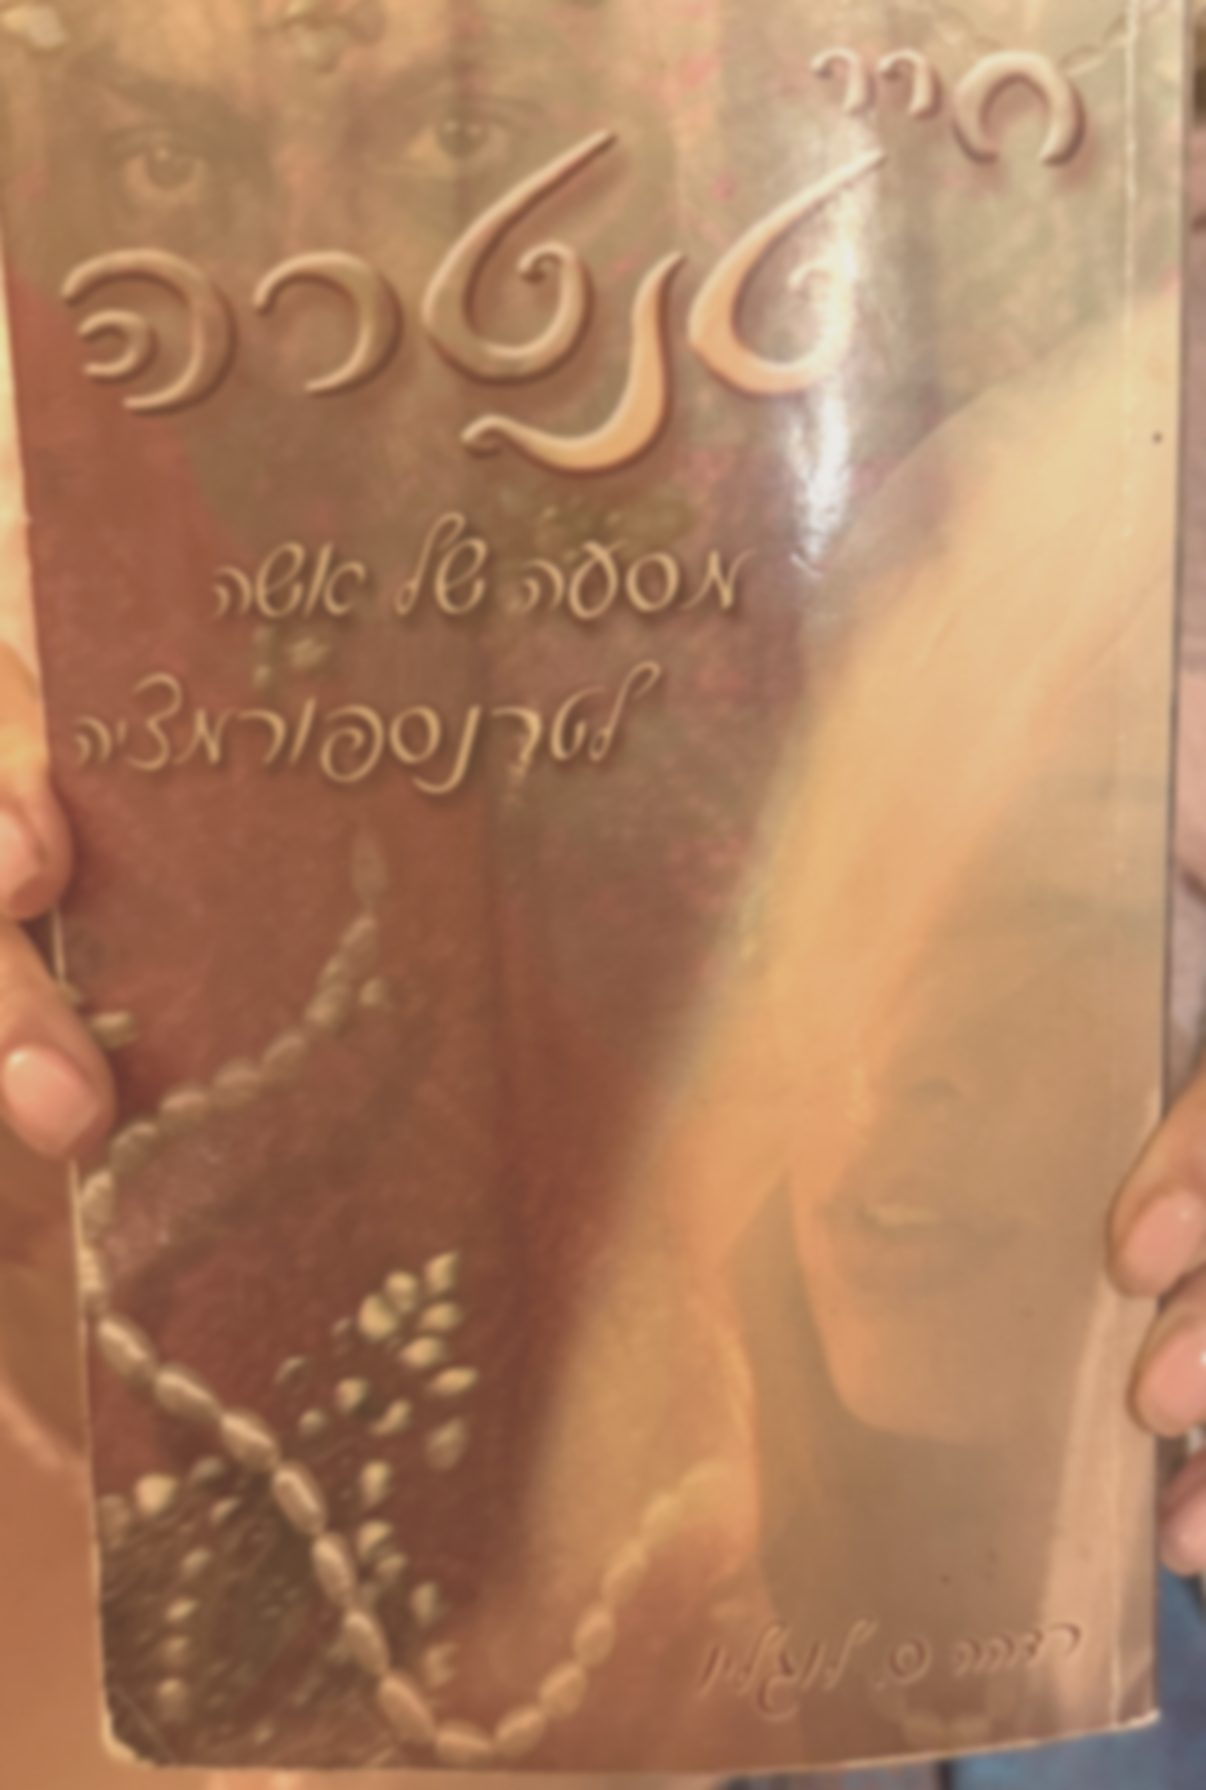
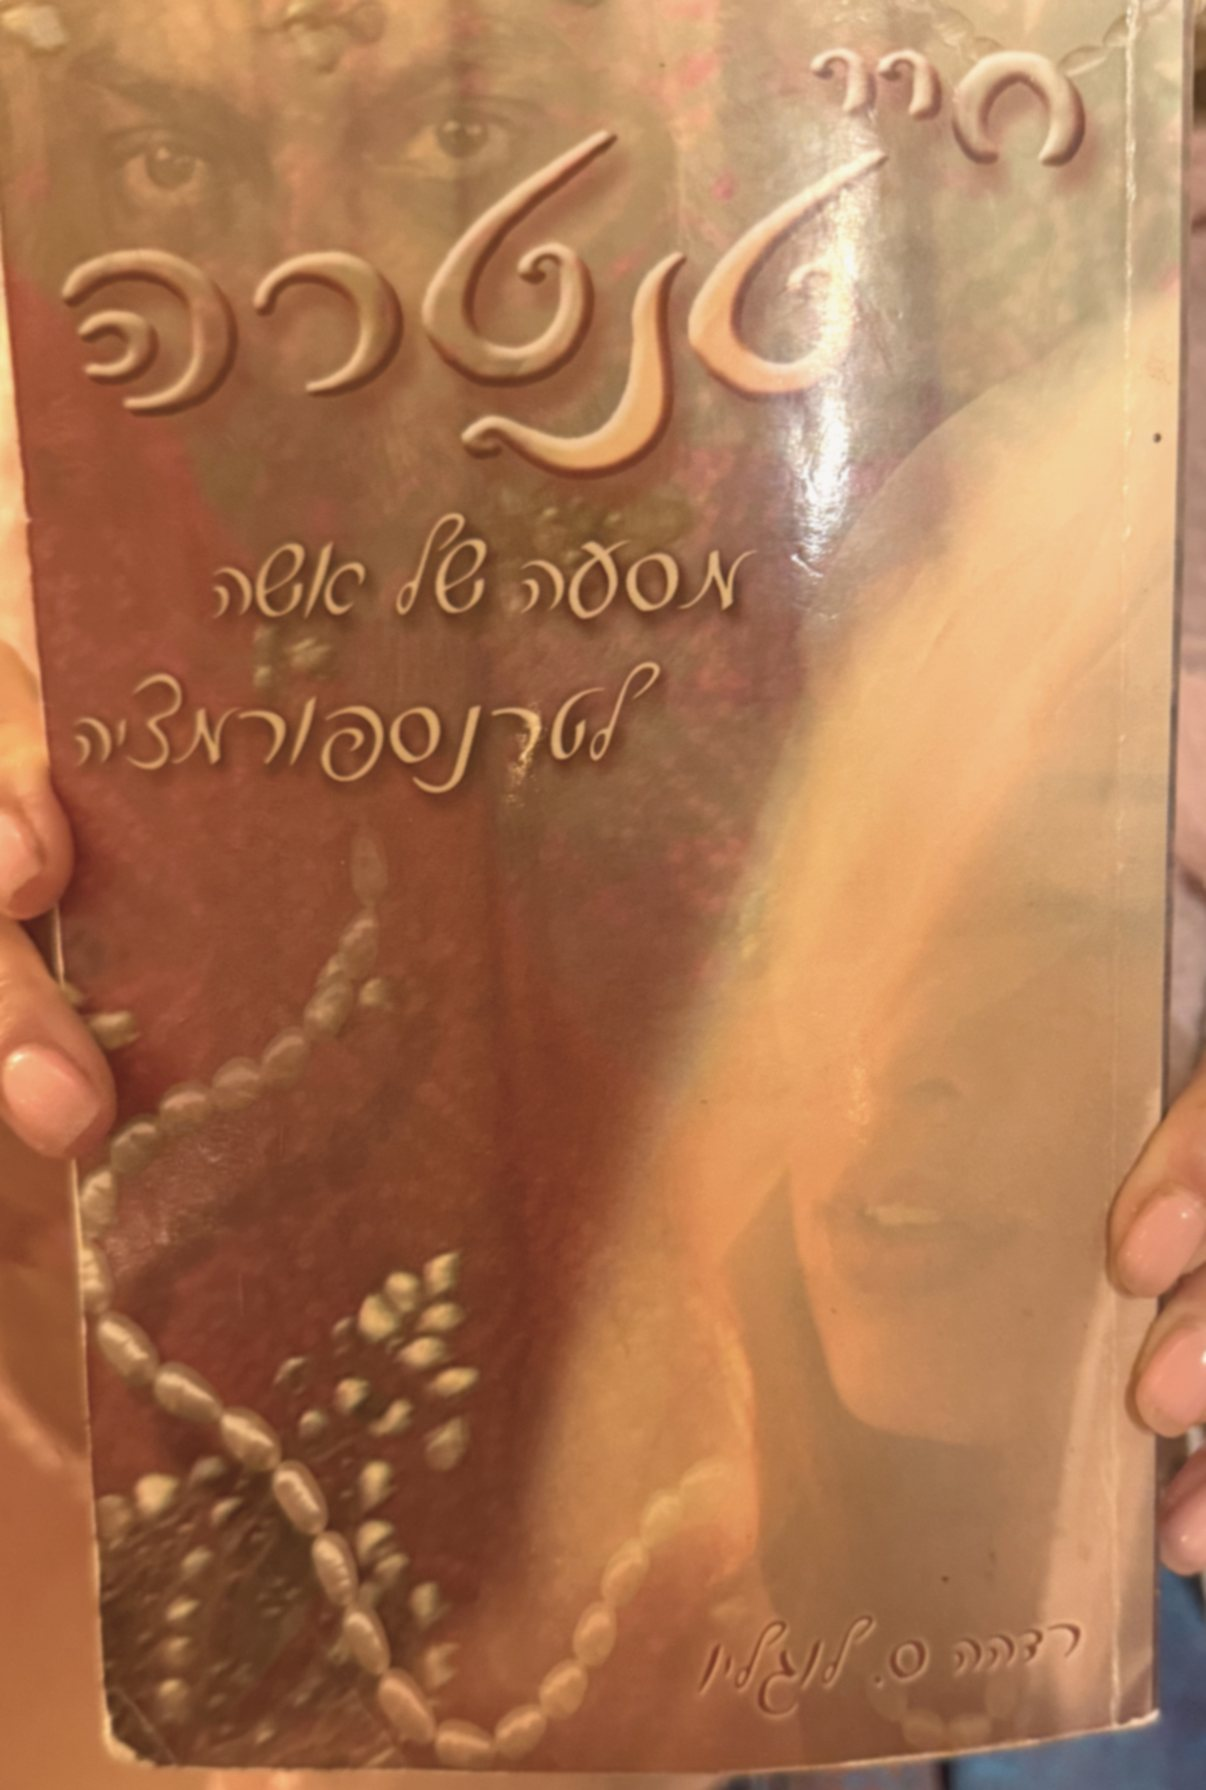
Make the book cover in the hero clearer
Claude-Session: https://claude.ai/code/session_01EUBHBqCCYUUCDKQTfvHC3n

diff --git a/index.html b/index.html
@@ -132,12 +132,12 @@ main{margin-right:var(--side-w)}
 }
 .hero-cta{grid-column:1/-1;display:flex;justify-content:center;margin-top:clamp(20px,3vw,40px)}
 .hero-book{
-  position:absolute;z-index:-1;left:4%;top:50%;transform:translateY(-50%) rotate(-4deg);
-  width:clamp(220px,26vw,380px);aspect-ratio:1206/1790;border-radius:6px;
-  background:url(images/book.jpg) center/cover;opacity:.42;filter:blur(1.5px) saturate(.9);
+  position:absolute;z-index:-1;left:3%;top:50%;transform:translateY(-50%) rotate(-4deg);
+  width:clamp(200px,21vw,320px);aspect-ratio:1206/1790;border-radius:6px;
+  background:url(images/book.jpg) center top/cover;opacity:.72;filter:saturate(.95);
   box-shadow:0 40px 80px -40px rgba(61,43,34,.5);
-  -webkit-mask-image:radial-gradient(75% 70% at 50% 50%,#000 55%,transparent 100%);
-          mask-image:radial-gradient(75% 70% at 50% 50%,#000 55%,transparent 100%);
+  -webkit-mask-image:radial-gradient(90% 80% at 50% 35%,#000 60%,transparent 100%);
+          mask-image:radial-gradient(90% 80% at 50% 35%,#000 60%,transparent 100%);
 }
 .hero-rise>*{opacity:0;transform:translateY(22px);animation:rise 1.2s cubic-bezier(.2,.7,.2,1) forwards}
 .hero-rise>*:nth-child(2){animation-delay:.3s}
@@ -255,7 +255,7 @@ main{margin-right:var(--side-w)}
   html{scroll-padding-top:70px}
   .hero{min-height:auto;padding-block:90px}
   .hero-grid{grid-template-columns:1fr;gap:30px}
-  .hero-book{left:-14%;top:auto;bottom:-6%;transform:rotate(-6deg);width:62vw;opacity:.3}
+  .hero-book{left:5%;top:70px;transform:rotate(-6deg);width:36vw;opacity:.6}
   .hero-cta{justify-content:center}
   .hero-side{border-right:0;padding-right:0;border-top:1px solid rgba(111,42,48,.35);padding-top:26px}
   .blobs{filter:blur(50px)}
